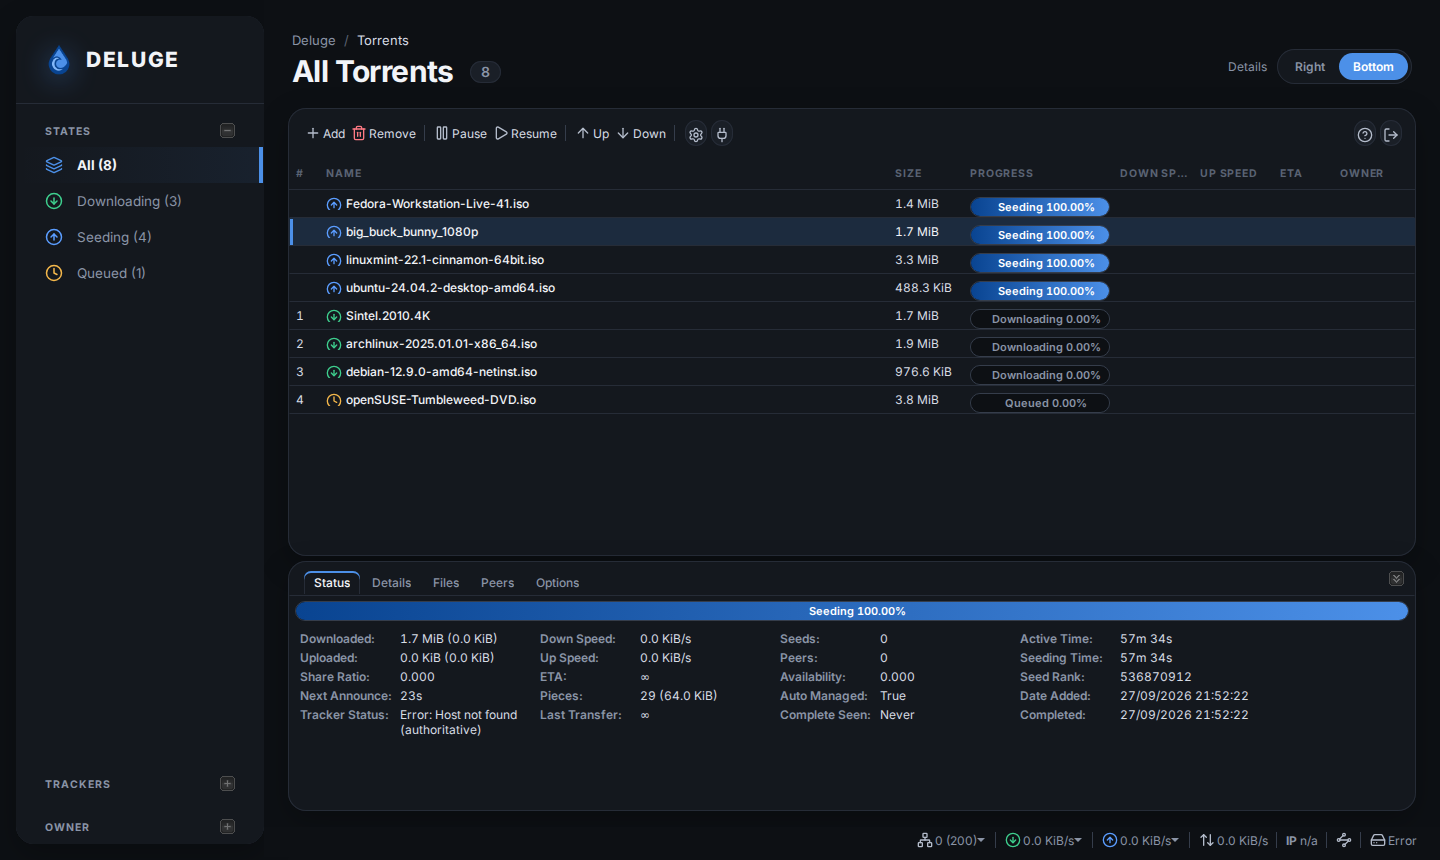
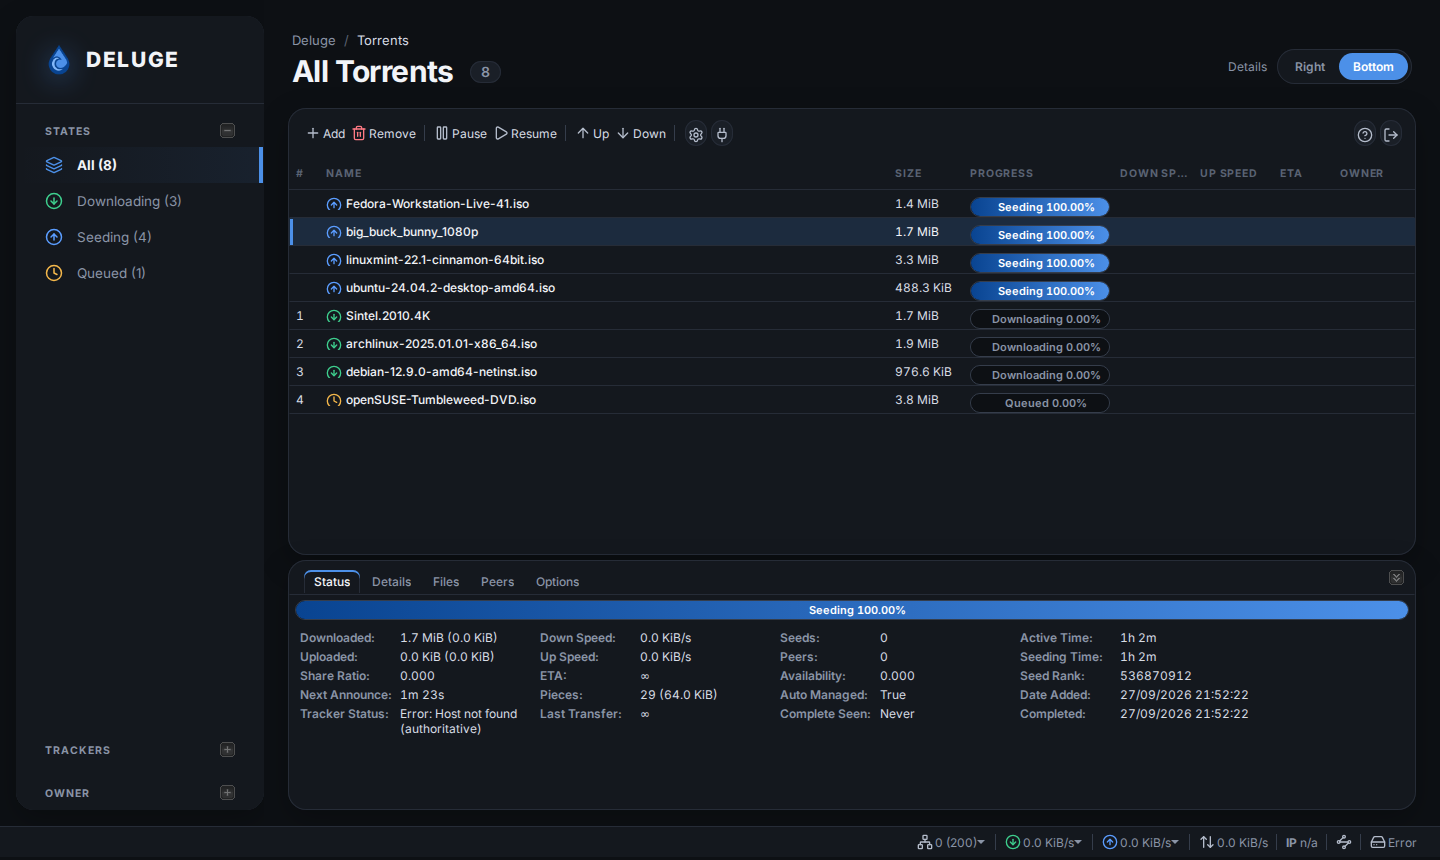
Dashboard: align card bottoms above a full-width status bar
Move the status bar from the centre column to the bottom of the whole
window, and have the navigation, torrent list and details cards all end
16px above it, in both details positions. Screenshots refreshed.

diff --git a/plugin/deluge_darkhand/data/darkhand.js b/plugin/deluge_darkhand/data/darkhand.js
@@ -12,9 +12,9 @@
  *   |  brand  |  +--------------------------------------+  | details |
  *   |         |  | toolbar                              |  | (right, |
  *   | filters |  | torrent list                         |  | or below|
- *   |  (nav)  |  +--------------------------------------+  | the     |
- *   +---------+  status bar                                | list)   |
- *                                                          +---------+
+ *   |  (nav)  |  |                                      |  | the     |
+ *   +---------+  +--------------------------------------+  +---------+
+ *   status bar (full width)
  *
  * The navigation, torrent list and details are floating cards. The details
  * card sits on the right (opening when a torrent is selected) or below the
@@ -186,14 +186,23 @@ Ext.ns('Deluge.plugins.darkhand');
             layout: 'border',
             border: false,
             items: mainItems,
-            bbar: deluge.statusbar,
         });
         viewportItems.push(main);
         if (mode === 'right') viewportItems.push(details);
 
-        var viewport = new Viewport({
+        // The status bar runs along the bottom of the whole window, below
+        // all the cards, which each end the same distance above it.
+        var shell = new Ext.Panel({
+            id: 'dh-shell',
             layout: 'border',
+            border: false,
             items: viewportItems,
+            bbar: deluge.statusbar,
+        });
+
+        var viewport = new Viewport({
+            layout: 'fit',
+            items: [shell],
         });
 
         state.active = true;

diff --git a/theme/darkhand/dashboard.css b/theme/darkhand/dashboard.css
@@ -18,6 +18,7 @@
 
 html body.dh-dashboard,
 .dh-dashboard .x-viewport,
+.dh-dashboard #dh-shell,
 .dh-dashboard #dh-main,
 .dh-dashboard #dh-main > .x-panel-bwrap > .x-panel-body {
     background: var(--dh-bg-0);
@@ -400,10 +401,19 @@ html body.dh-dashboard,
 /* Status bar                                                               */
 /* ------------------------------------------------------------------------ */
 
+/* Full-width bar along the bottom of the window */
+.dh-dashboard #dh-shell > .x-panel-bwrap > .x-panel-body {
+    background: var(--dh-bg-0);
+}
+
+.dh-dashboard #dh-shell > .x-panel-bwrap > .x-panel-bbar {
+    border-top: 1px solid var(--dh-border);
+}
+
 .dh-dashboard #deluge-statusbar {
-    background: transparent;
+    background: var(--dh-bg-1);
     border: 0 none;
-    padding: 2px 20px 6px;
+    padding: 4px 20px;
 }
 
 /* Deluge fixes the Status tab at 1000px and floats its four columns side by
